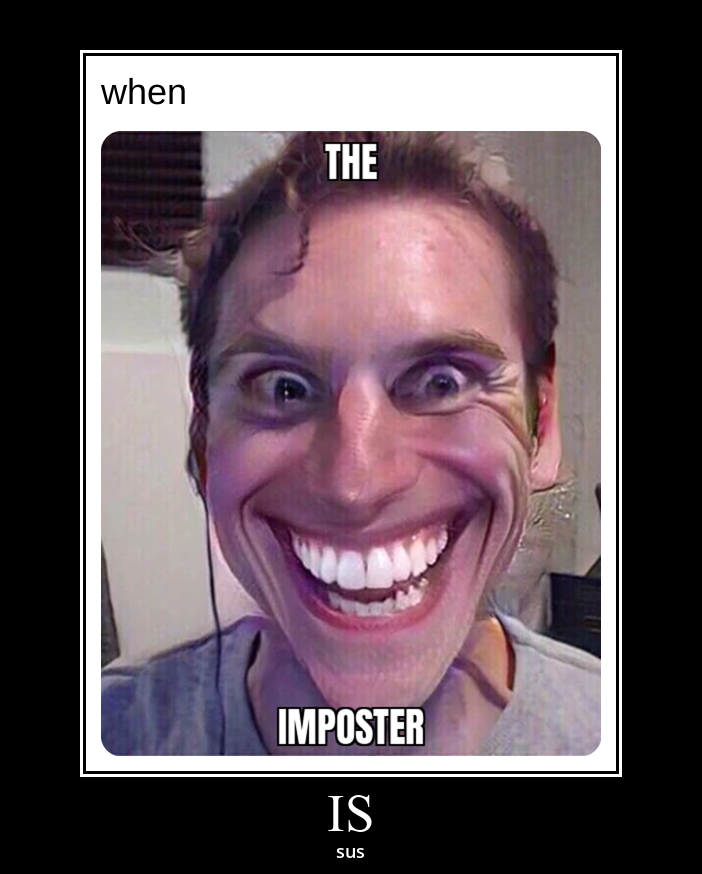
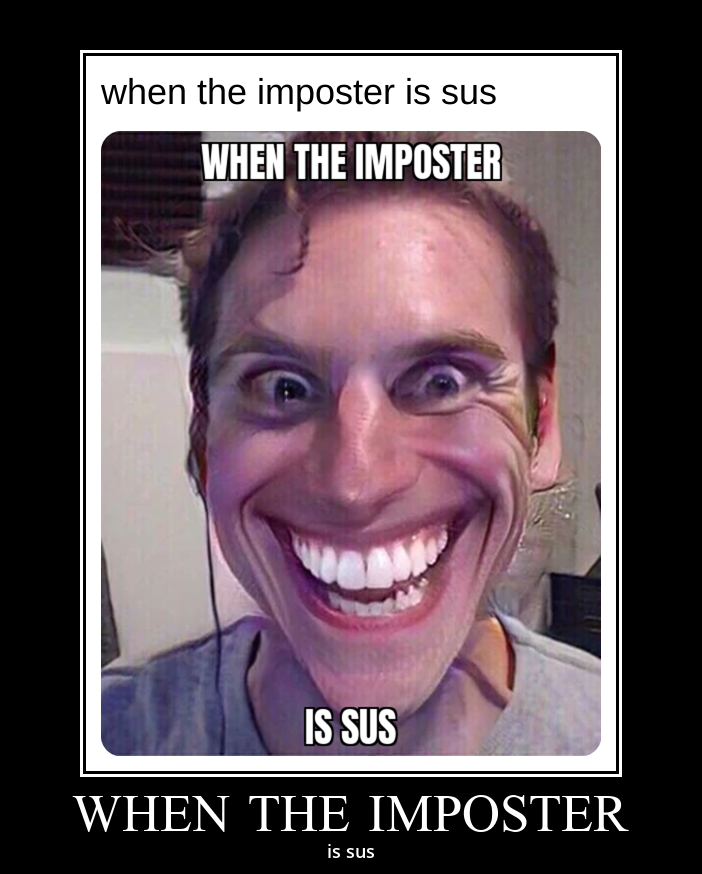
twitter word wrap adjustment

diff --git a/src/memegen.py b/src/memegen.py
@@ -4,11 +4,11 @@ from PIL import Image, ImageDraw, ImageOps
 
 class MemeGen:
     I_OFFSET = 2
-    I_WIDTH_WRAP = 26
+    I_WORD_WRAP = 26
     I_HEIGHT_PAD = 15
     I_HEIGHT_FORCE = 45
 
-    T_WIDTH_WRAP = 28
+    T_WORD_WRAP = 31
     T_HEIGHT_FORCE = 45
     T_PAD = 15
     T_RADIUS = 60
@@ -39,7 +39,7 @@ class MemeGen:
         i_width, i_height = image.size
         text_lines = wrap(
             ' '.join(list_text).upper(),
-            width=MemeGen.I_WIDTH_WRAP)
+            width=MemeGen.I_WORD_WRAP)
 
         for i, text in enumerate(text_lines):
             t_width, t_height = draw.textsize(text, font=self.font_impact)
@@ -70,7 +70,7 @@ class MemeGen:
     def apply_format_twitter(self, image, list_text):
         text_lines = wrap(
             ' '.join(list_text),
-            width=MemeGen.T_WIDTH_WRAP)
+            width=MemeGen.T_WORD_WRAP)
         image = MemeGen._add_corners(image, MemeGen.T_RADIUS)
 
         top = (MemeGen.T_PAD * 2) + \
